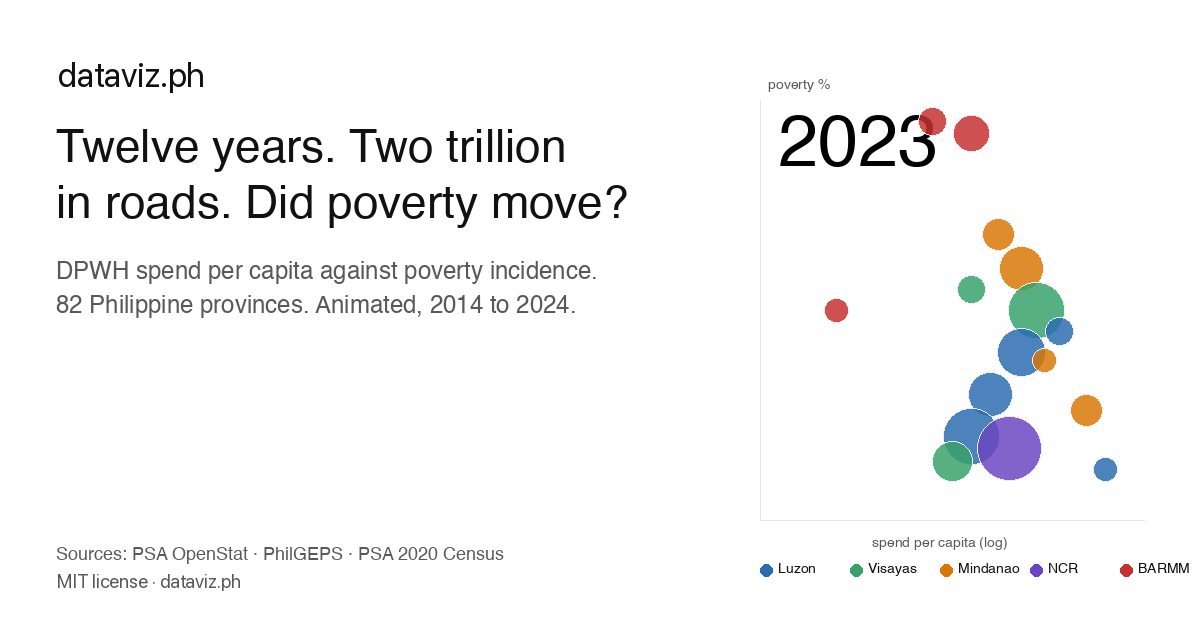
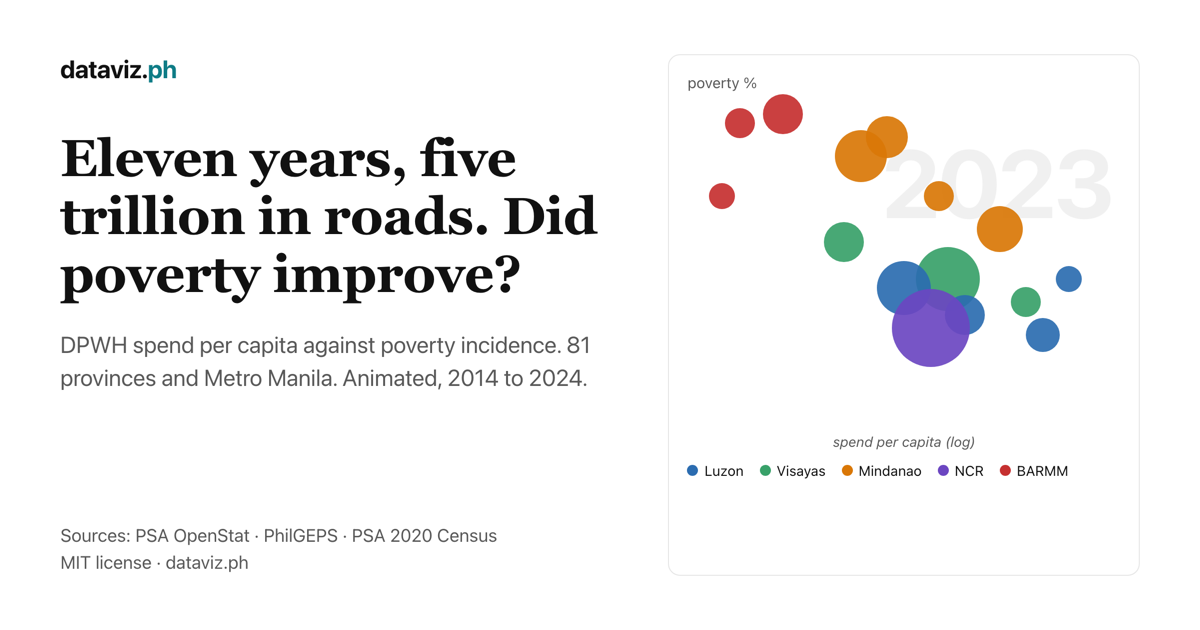
regenerate hero gif and og card for the refresh, fix stale og copy (eleven years, five trillion, 81 provinces + Metro Manila) and README map claim

diff --git a/docs/og.html b/docs/og.html
@@ -1,0 +1,85 @@
+<!doctype html>
+<html lang="en">
+<head>
+<meta charset="utf-8">
+<style>
+  :root{
+    --ink:#111; --muted:#595959; --rule:#e6e6e6; --brand:#0e7c86;
+    --luzon:#2b6cb0; --visayas:#38a169; --mindanao:#d97706; --ncr:#6b46c1; --barmm:#c53030;
+  }
+  *{box-sizing:border-box;margin:0;padding:0}
+  html,body{width:1200px;height:630px;background:#fff;
+    font-family:-apple-system,BlinkMacSystemFont,"Helvetica Neue",Helvetica,Arial,sans-serif;
+    color:var(--ink);-webkit-font-smoothing:antialiased}
+  .card{width:1200px;height:630px;display:flex;padding:54px 60px}
+  /* Left column */
+  .left{width:600px;display:flex;flex-direction:column}
+  .brand{font-size:25px;font-weight:700;letter-spacing:-0.02em}
+  .brand .tld{color:var(--brand)}
+  h1{font-family:Georgia,"Iowan Old Style",Palatino,"Times New Roman",serif;
+     font-weight:600;font-size:52px;line-height:1.12;letter-spacing:-0.01em;
+     margin-top:46px;max-width:560px}
+  .sub{color:var(--muted);font-size:23px;line-height:1.45;margin-top:24px;max-width:540px}
+  .foot{margin-top:auto;color:var(--muted);font-size:18px;line-height:1.5}
+  /* Right column: mini chart panel */
+  .right{width:480px;margin-left:20px;position:relative;
+    border:1px solid var(--rule);border-radius:12px;padding:18px 18px 14px}
+  .yaxis{font-size:15px;color:var(--muted)}
+  .year{position:absolute;right:26px;top:70px;font-size:96px;font-weight:700;color:rgba(0,0,0,0.06);
+    letter-spacing:-0.02em}
+  .plot{position:relative;height:330px;margin-top:6px}
+  .bub{position:absolute;border-radius:50%;opacity:0.92}
+  .xcap{text-align:center;font-size:14px;color:var(--muted);font-style:italic;margin-top:6px}
+  .legend{display:flex;gap:16px;margin-top:12px;font-size:14px;color:var(--ink);align-items:center;flex-wrap:wrap}
+  .legend span{display:inline-flex;align-items:center;gap:6px}
+  .legend i{width:11px;height:11px;border-radius:50%;display:inline-block}
+</style>
+</head>
+<body>
+  <div class="card">
+    <div class="left">
+      <div class="brand">dataviz.<span class="tld">ph</span></div>
+      <h1>Eleven years, five trillion in roads. Did poverty improve?</h1>
+      <p class="sub">DPWH spend per capita against poverty incidence. 81 provinces and Metro Manila. Animated, 2014 to 2024.</p>
+      <div class="foot">
+        Sources: PSA OpenStat &middot; PhilGEPS &middot; PSA 2020 Census<br>
+        MIT license &middot; dataviz.ph
+      </div>
+    </div>
+    <div class="right">
+      <div class="yaxis">poverty %</div>
+      <div class="year">2023</div>
+      <div class="plot" id="plot"></div>
+      <div class="xcap">spend per capita (log)</div>
+      <div class="legend">
+        <span><i style="background:var(--luzon)"></i>Luzon</span>
+        <span><i style="background:var(--visayas)"></i>Visayas</span>
+        <span><i style="background:var(--mindanao)"></i>Mindanao</span>
+        <span><i style="background:var(--ncr)"></i>NCR</span>
+        <span><i style="background:var(--barmm)"></i>BARMM</span>
+      </div>
+    </div>
+  </div>
+  <script>
+    // Decorative bubble cluster evoking the scatter: high-poverty BARMM/Mindanao
+    // top-left, wealthier low-poverty Luzon/NCR lower-right. Not data-exact.
+    const C={luzon:'#2b6cb0',visayas:'#38a169',mindanao:'#d97706',ncr:'#6b46c1',barmm:'#c53030'};
+    // x%, y% (0 top), diameter px, island
+    const B=[
+      [12,8,30,'barmm'],[22,5,40,'barmm'],[8,30,26,'barmm'],
+      [40,18,52,'mindanao'],[46,12,42,'mindanao'],[58,30,30,'mindanao'],[72,40,46,'mindanao'],
+      [36,44,40,'visayas'],[60,55,64,'visayas'],[78,62,30,'visayas'],
+      [50,58,54,'luzon'],[64,66,40,'luzon'],[82,72,34,'luzon'],[88,55,26,'luzon'],
+      [56,70,78,'ncr'],
+    ];
+    const plot=document.getElementById('plot');
+    const w=plot.clientWidth||444, h=330;
+    for(const [x,y,d,isl] of B){
+      const el=document.createElement('div');el.className='bub';
+      el.style.width=d+'px';el.style.height=d+'px';el.style.background=C[isl];
+      el.style.left=(x/100*w - d/2)+'px';el.style.top=(y/100*h - d/2)+'px';
+      plot.appendChild(el);
+    }
+  </script>
+</body>
+</html>

diff --git a/README.md b/README.md
@@ -124,9 +124,8 @@ All data sourced from public records (PSA OpenStat, PhilGEPS, PSA Census). This 
 
 - A screen-reader user can read the data table, use the year buttons, and operate the X/Y indicator dropdowns, but cannot click individual bubbles to pin trails.
 - Auto-play kicks in on the first visit (no hash). Shared links with a hash skip it.
-- The OG card at `public/og.png` is hand-designed (1200x630). Per-view OG images would need a Vercel Edge Function.
+- The OG card at `public/og.png` (1200x630) is rendered from `docs/og.html`: open it at a 1200x630 viewport (2x for crisp text), screenshot, downscale to 1200x630. Keep its headline in sync with the default story.
 - Compare-with-year is a same-chart overlay. A side-by-side split view is not implemented.
-- No choropleth (map) view yet.
 
 ## License
 
